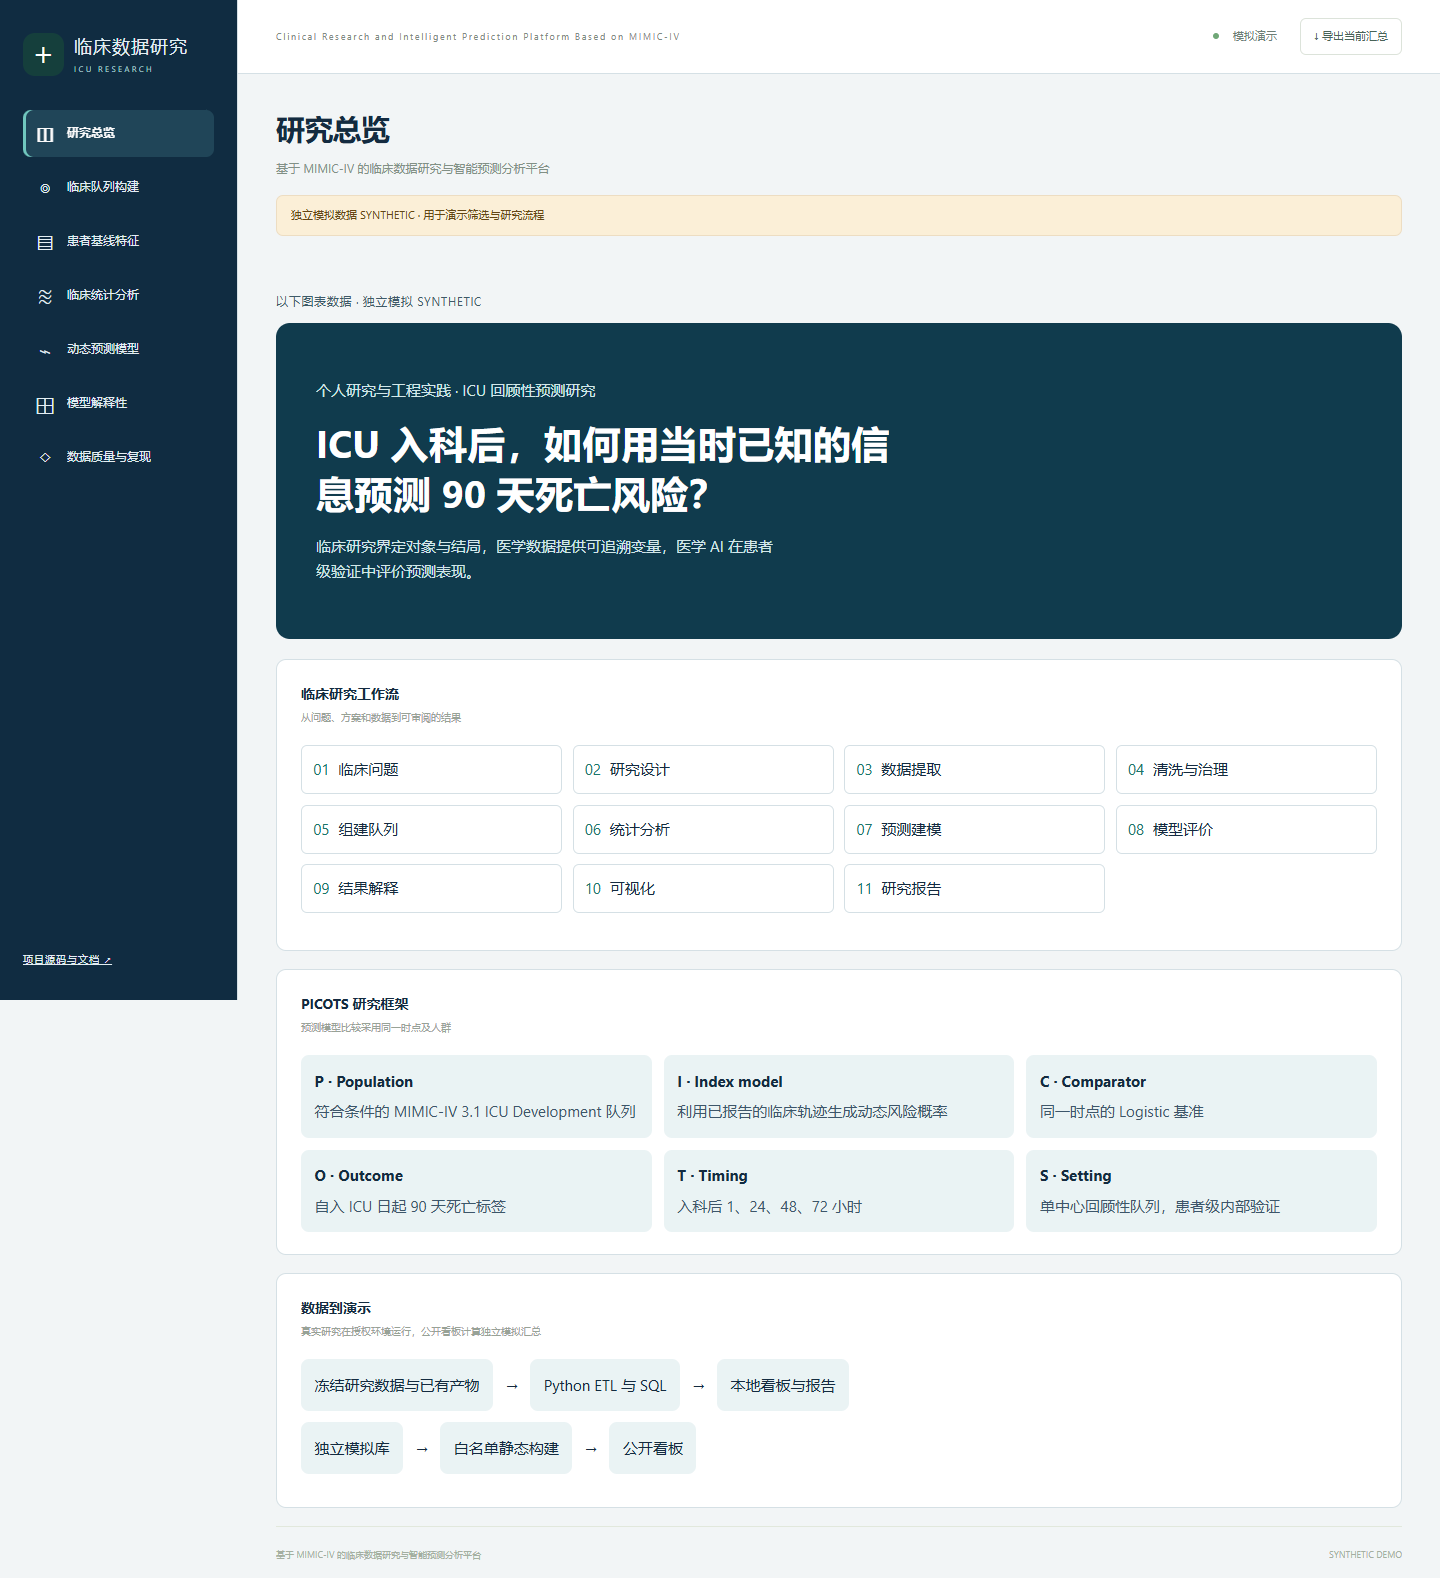
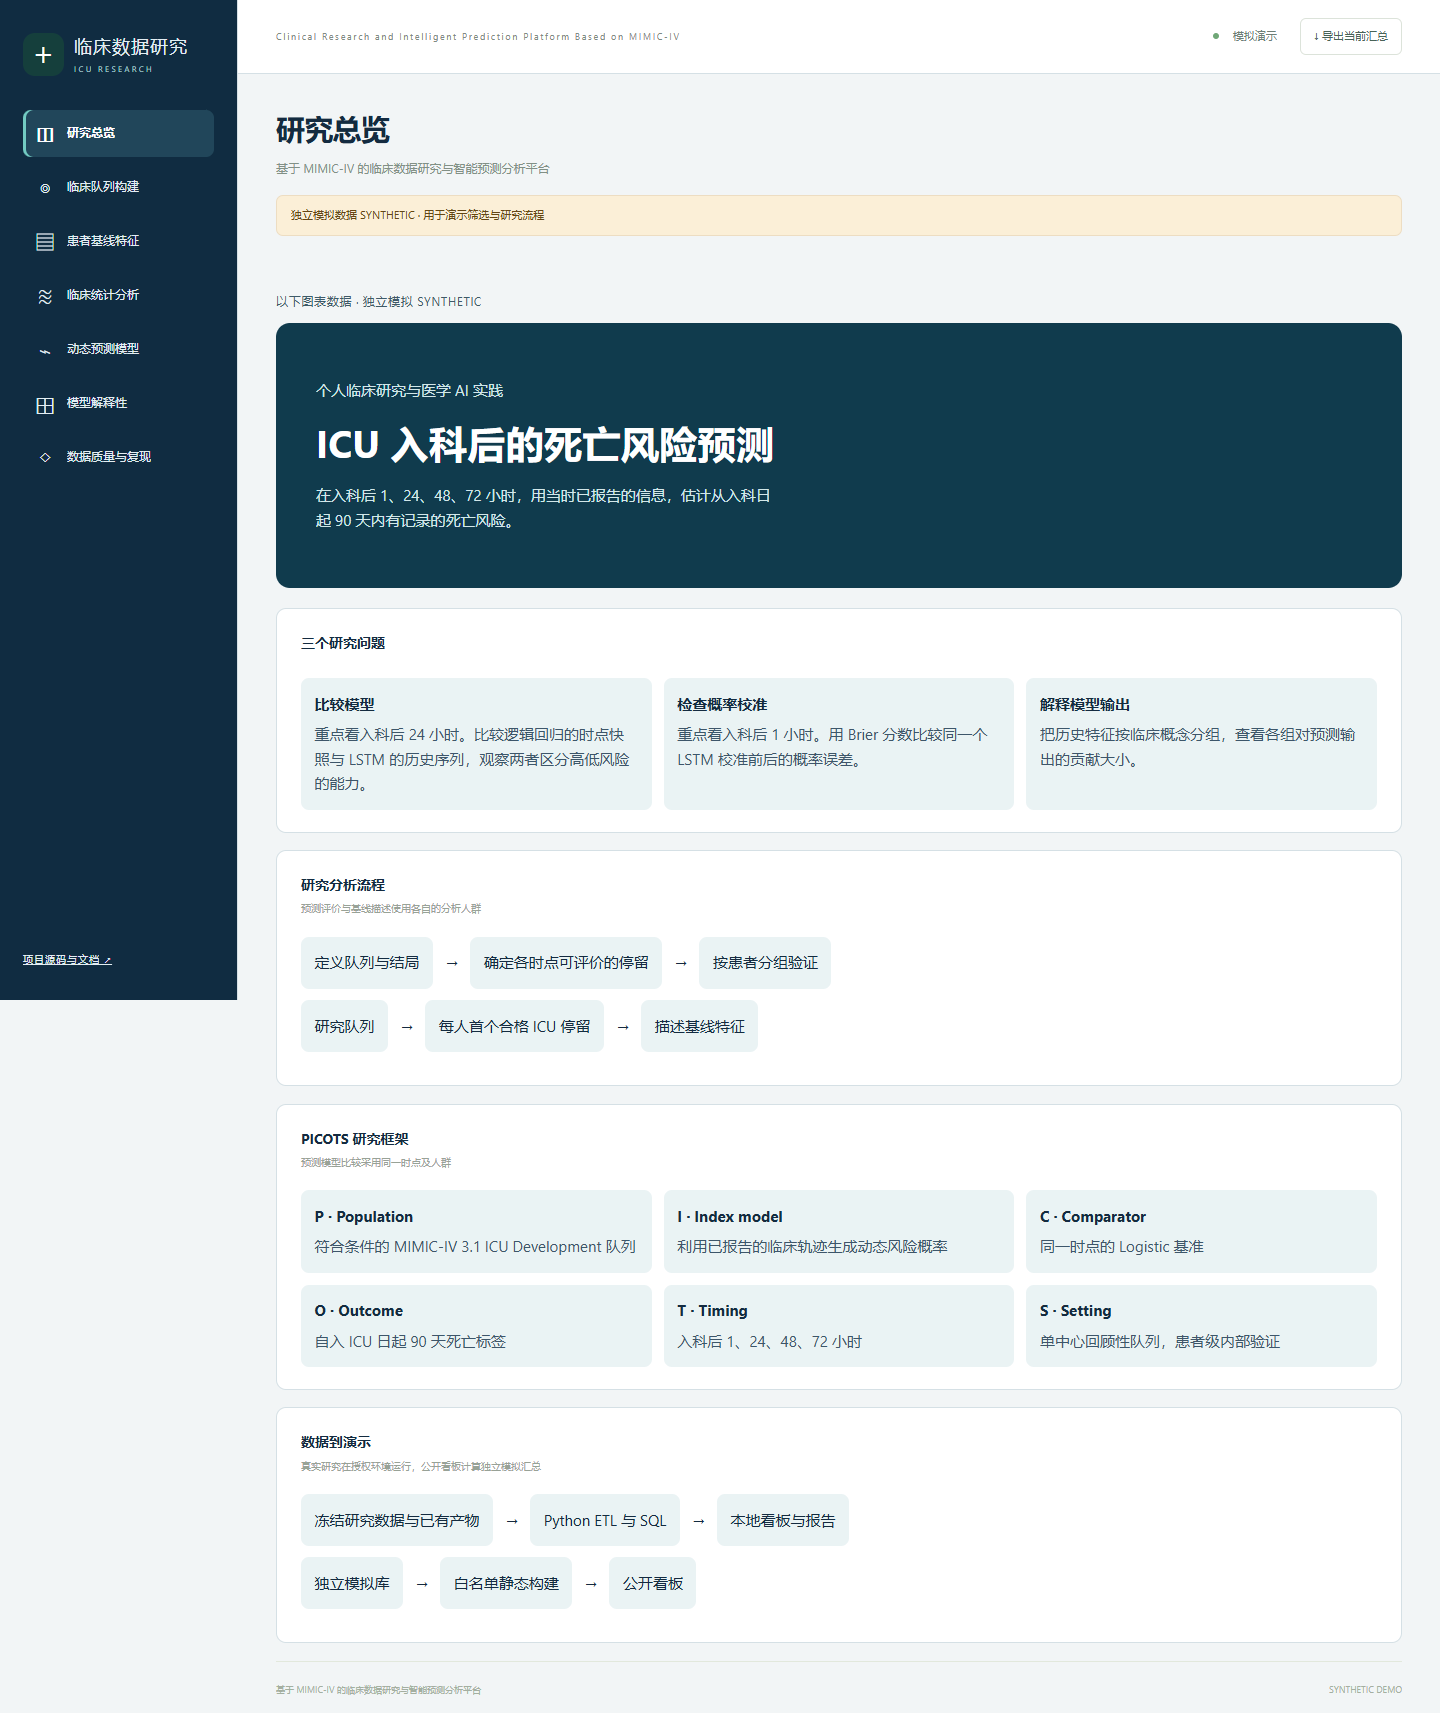
Align public homepage and preview with research questions

diff --git a/web/research-ui.js b/web/research-ui.js
@@ -1,27 +1,35 @@
 'use strict';
 
+function overviewCards(cards) {
+    return '<div class="picots">' + cards.map(([name, detail]) =>
+        `<div><strong>${name}</strong><p>${detail}</p></div>`).join('') + '</div>';
+}
+
 function studyCards() {
-    const cards = [
+    return overviewCards([
         ['P · Population', '符合条件的 MIMIC-IV 3.1 ICU Development 队列'],
         ['I · Index model', '利用已报告的临床轨迹生成动态风险概率'],
         ['C · Comparator', '同一时点的 Logistic 基准'],
         ['O · Outcome', '自入 ICU 日起 90 天死亡标签'],
         ['T · Timing', '入科后 1、24、48、72 小时'],
         ['S · Setting', '单中心回顾性队列，患者级内部验证'],
-    ];
-    return '<div class="picots">' + cards.map(([name, detail]) =>
-        `<div><strong>${name}</strong><p>${detail}</p></div>`).join('') + '</div>';
+    ]);
 }
 
 function workflow() {
-    return '<div class="entity-map"><span>队列与结局定义</span><b>→</b><span>各时点风险集</span><b>→</b><span>患者级折外评价</span></div>' +
-        '<div class="entity-map"><span>冻结 Development</span><b>→</b><span>每人首个合格 ICU 停留</span><b>→</b><span>基线与探索性关联</span></div>';
+    return '<div class="entity-map"><span>定义队列与结局</span><b>→</b><span>确定各时点可评价的停留</span><b>→</b><span>按患者分组验证</span></div>' +
+        '<div class="entity-map"><span>研究队列</span><b>→</b><span>每人首个合格 ICU 停留</span><b>→</b><span>描述基线特征</span></div>';
 }
 
 function studyOverview() {
-    return '<div class="study-hero"><p>个人研究与工程实践 · ICU 回顾性预测研究</p>' +
-        '<h2>ICU 入科后，已报告的信息能否预测 90 天内有记录的死亡？</h2>' +
-        '<p>v03 比较 Logistic 与 LSTM 的排序表现。v04 关注首小时同一网络校准前后的概率误差。</p></div>' +
+    return '<div class="study-hero"><p>个人临床研究与医学 AI 实践</p>' +
+        '<h2>ICU 入科后的死亡风险预测</h2>' +
+        '<p>在入科后 1、24、48、72 小时，用当时已报告的信息，估计从入科日起 90 天内有记录的死亡风险。</p></div>' +
+        panel('三个研究问题','',overviewCards([
+            ['比较模型', '重点看入科后 24 小时。比较逻辑回归的时点快照与 LSTM 的历史序列，观察两者区分高低风险的能力。'],
+            ['检查概率校准', '重点看入科后 1 小时。用 Brier 分数比较同一个 LSTM 校准前后的概率误差。'],
+            ['解释模型输出', '把历史特征按临床概念分组，查看各组对预测输出的贡献大小。'],
+        ])) +
         panel('研究分析流程','预测评价与基线描述使用各自的分析人群',workflow()) +
         panel('PICOTS 研究框架','预测模型比较采用同一时点及人群',studyCards()) +
         panel('数据到演示','真实研究在授权环境运行，公开看板计算独立模拟汇总',
@@ -96,6 +104,11 @@ function studyStatistics() {
 }
 
 const modelNames={logistic:'Logistic',lstm:'LSTM',nested_raw:'LSTM 原概率',isotonic:'同网络 Isotonic'};
+const experimentTitles = {
+    synthetic_simulation: '模拟评分对照',
+    v03_baseline: '模型比较 · 逻辑回归与 LSTM',
+    v04_nested: '概率校准 · 同一 LSTM 校准前后',
+};
 const palette=['#1b766b','#b35037'];
 function nameFor(row) {
     return data.meta.mode==='demo' ? (row.model==='nested_raw'?'模拟评分 A':'模拟评分 B') :
@@ -143,7 +156,7 @@ function modelStudy() {
             xyChart(['nested_raw','isotonic'].map(model=>({name:nameFor({model}),
                 points:bins.filter(r=>r.model===model).map(r=>[r.mean_probability,r.observed_fraction])})),
             '平均预测概率','观察事件率',[[0,0],[1,1]])):'';
-        return panel(esc(experiment)+' · '+hour+' h','全队列固定评价 · AP 按阶梯积分 · 分类阈值 0.50',
+        return panel(esc(experimentTitles[experiment] ?? experiment)+' · 入科后 '+hour+' 小时','全队列固定评价 · AP 按阶梯积分 · 分类阈值 0.50',
                 table(['模型','停留数','AUROC','AP','Brier','MCC','TN / FP / FN / TP'],tableRows))+
                 charts+trend+calibrationPlot;
     }).join('');
@@ -151,7 +164,7 @@ function modelStudy() {
 
 function studyExplanation() {
     const synthetic=data.meta.mode==='demo';
-    return panel(synthetic?'模拟贡献展示（示意）':'v06 · 13 组历史贡献',
+    return panel(synthetic?'模拟贡献展示（示意）':'13 组历史特征贡献',
         hour+' h · 平均绝对贡献（概率百分点）',
         bars(data.importance.map(r=>({label:r.group_label,n:r.importance_pp})),true)+
         `<p class="chart-note">${synthetic?'示意贡献用于检查看板。':'在折外患者的样本中计算分组历史 Shapley，参照来自相应网络训练患者。贡献大小受参照与变量相关性影响。'}</p>`);

diff --git a/docs/public/model_development.md b/docs/public/model_development.md
@@ -2,14 +2,16 @@
 
 历史研究使用入科后前 72 小时的序列。25 个临床槽位形成 26 列模型输入。连续量的填补和缩放参数在各折训练范围内拟合，通气阳性和未知分别编码。各时点评价使用相应风险集，特征可得性以测量时间、报告时间和预测时点为准。
 
-| 实验 | 当前证据 |
-|---|---|
-| M4-LR-V03-20261112 | 每时点×五折的 20 个 L2 Logistic。四时点快照，基准主要时点 24h |
-| M4-LSTM-V03-20261112 | 五个单向 LSTM。固定 16 隐藏单元、四轮训练。有效时长 mask |
-| M4-CAL-V04-20261112 | 五折各自划分训练、校准、折外验证患者。每折四个 Isotonic 共 20 个映射。主要 1h 同网络 Brier 对比 |
-| M4-EXPL-V06-20261112 | 13 组历史解释，外层验证抽样，训练患者为参照 |
+项目沿用本地研究归档里的实验编号，便于将方法、模型和结果表对应起来。v03、v04、v06 分别对应模型比较、概率校准和模型解释。
 
-## v03 · Logistic 与 LSTM
+| 研究任务 | 归档编号 | 当前证据 |
+|---|---|---|
+| 时点快照模型 | `M4-LR-V03-20261112` | 每时点×五折的 20 个 L2 Logistic。四时点快照，主要比较时点为 24 小时。 |
+| 历史序列模型 | `M4-LSTM-V03-20261112` | 五个单向 LSTM。固定 16 个隐藏单元、四轮训练，使用有效时长标记。 |
+| 同一网络的概率校准 | `M4-CAL-V04-20261112` | 五折各自划分训练、校准和折外验证患者。每折四个 Isotonic 映射，主要比较首小时的 Brier。 |
+| 历史特征分组解释 | `M4-EXPL-V06-20261112` | 13 组历史特征贡献，抽样来自外层验证折，参照来自训练患者。 |
+
+## 模型比较 · v03
 
 ```mermaid
 %%{init: {"htmlLabels": false, "flowchart": {"htmlLabels": false}}}%%
@@ -30,7 +32,7 @@ flowchart TB
 
 每位患者的预测来自留出该患者的折。v03 的主要对比时点为 24 小时，其余时点用于观察结果随风险集的变化。
 
-## v04 · 同网络概率校准
+## 同一网络的概率校准 · v04
 
 ```mermaid
 %%{init: {"htmlLabels": false, "flowchart": {"htmlLabels": false}}}%%
@@ -52,7 +54,11 @@ flowchart TB
   calibrated --> oof
 ```
 
-v04 以首小时 Brier 为重点，同时保留各时点的其他评价指标。v06 单独归档分组历史 Shapley 解释，抽样来自外层验证患者，参照来自对应网络的训练患者。
+概率校准以首小时 Brier 为重点，同时保留各时点的其他评价指标。
+
+## 历史特征分组解释 · v06
+
+把一起解释的临床变量及其历史记录归为一组，用分组 Shapley 估计各组对模型输出的贡献。抽样来自外层验证患者，参照来自对应网络的训练患者。看板按组展示平均绝对贡献，单位为概率百分点。
 
 以上流程记录授权本地项目的历史方法。第 03、05、06 章保存模型及核验产物，第 07 章保存结果表。本仓库导入这些冻结产物，并提供只读复算。
 

diff --git a/README.md b/README.md
@@ -4,13 +4,19 @@
 
 这是我在学习临床研究和医学 AI 过程中完成的个人项目。我用 MIMIC-IV 3.1 练习把一个临床问题转成可核查的分析，并实现了数据整理、结果复算和交互展示。
 
-研究问题是：在 ICU 入科后 1、24、48、72 小时，对当时仍符合条件的停留，使用当时已报告的信息，能否估计从入科日计的 90 天内有记录的死亡风险？v03 关注 Logistic 和 LSTM 的区分能力，主要比较时点为 24 小时。v04 延续早期概率误差的观察，重点比较首小时同一网络校准前后的 Brier。队列描述帮助理解分母，v06 的分组贡献用于理解模型输出。
+**研究问题**是在 ICU 入科后 1、24、48、72 小时，能否用当时已报告的信息，估计从入科日起 90 天内有记录的死亡风险？每次评价只纳入该时点仍符合条件的 ICU 停留。
+
+- **比较模型**：重点看入科后 24 小时。比较逻辑回归的时点快照和 LSTM 的历史序列，观察两者区分高低风险的能力。
+- **检查概率校准**：重点看入科后 1 小时。在相同的验证人群中，用 Brier 分数衡量同一个 LSTM 校准前后的概率误差。
+- **解释模型输出**：把历史特征按临床概念分组，查看各组对预测输出的贡献大小。
+
+队列和基线分析说明每项结果对应哪些患者和 ICU 停留。实现路径及实验编号见 [实验流程](docs/public/model_development.md)。
 
 **English abstract.** A personal clinical research and engineering project on ICU landmark prediction using MIMIC-IV 3.1. This repository contains a synthetic interactive demo and tools for checking frozen results in a credentialed environment. Historical cohort construction, feature generation and model training are documented in a separate local project.
 
 [在线演示（模拟数据）](https://huhu-0026.github.io/icu-outcomes-analytics/) · [项目概览](docs/public/project_overview.md) · [队列与时间轴](docs/public/research_design.md) · [数据字典](docs/public/data_dictionary.md) · [实验流程](docs/public/model_development.md) · [统计分析计划](docs/public/statistical_analysis_plan.md)
 
-![新版研究总览 · 独立模拟 SYNTHETIC](docs/public/dashboard-overview.png)
+[![研究总览预览 · 独立模拟数据](docs/public/dashboard-overview.png)](https://huhu-0026.github.io/icu-outcomes-analytics/)
 
 | 证据范围 | 可查看或运行的内容 |
 |---|---|

diff --git a/docs/public/model_evaluation.md b/docs/public/model_evaluation.md
@@ -6,9 +6,9 @@
 | 概率误差多大 | Brier 为平均平方误差。校准图比较箱内平均预测与观察比例 |
 | 固定阈值怎样表现 | p≥0.50 为阳性。提供 TN、FP、FN、TP 和 MCC。分母退化显示空值 |
 | 随时点怎样变化 | 每个点使用本时点风险集。不能解释为同一群人的个体概率改善 |
-| 哪些历史组影响输出 | v06 按概率百分点汇总绝对分组历史贡献，13 组、折外抽样、仅训练侧参照 |
+| 哪些历史特征组对输出贡献较大 | 历史特征分组解释（v06）按概率百分点汇总 13 组平均绝对贡献，使用折外样本和训练侧参照 |
 
-v03 比较 Logistic 与 LSTM，v04 比较同一嵌套网络的原概率与 Isotonic。所有模型曲线、计数和指标绑定实验及预测时点。图上的下采样只用于显示，统计量由原曲线计算。冻结 0.50 是描述阈值，临床阈值选择尚未验证。
+模型比较（v03）对照逻辑回归与 LSTM。概率校准（v04）对照同一网络的原概率和经过 Isotonic 映射的概率。所有模型曲线、计数和指标绑定实验及预测时点。图上的下采样只用于显示，统计量由原曲线计算。冻结 0.50 是描述阈值，临床阈值选择尚未验证。
 
 Isotonic 能改变并列排序。应同时查看首小时概率误差与其他时点结果。一处指标改善不能推导所有时点均变化相同。v06 是分组历史 Shapley 解释，相关变量与参照选择限制解释。无因果或临床应用结论。
 

diff --git a/docs/public/project_overview.md b/docs/public/project_overview.md
@@ -2,7 +2,7 @@
 
 这个个人项目记录了我学习临床研究和医学 AI 的实践。我从 ICU 入科后的时点预测入手，练习定义队列和结局、约束预测时能用的信息、按患者验证模型，并把分析做成可检查的结果。
 
-预测研究的主线是从入科日计的 90 天内有记录的死亡。v03 在同一时点比较 Logistic 快照和 LSTM，v04 比较同一网络校准前后的概率。队列和基线分析说明谁进入了研究，探索性关联补充人群描述，v06 的分组贡献帮助检查网络使用的历史信息。
+预测研究的结局是从入科日计的 90 天内有记录的死亡。我先比较只看时点快照的逻辑回归与使用历史序列的 LSTM，再检查同一 LSTM 校准前后的概率误差，并用分组特征贡献理解模型输出。队列和基线分析说明各项结果对应哪些患者和 ICU 停留。
 
 本仓库可以跑通独立模拟演示，也可在授权环境中将冻结产物导入分析库，复算折外评价并查看统计结果。完整历史队列构建、特征工程和训练由本地研究项目保存。读者可从在线演示查看交互，从研究文档核查口径，再从源码追溯本仓库实现。
 
